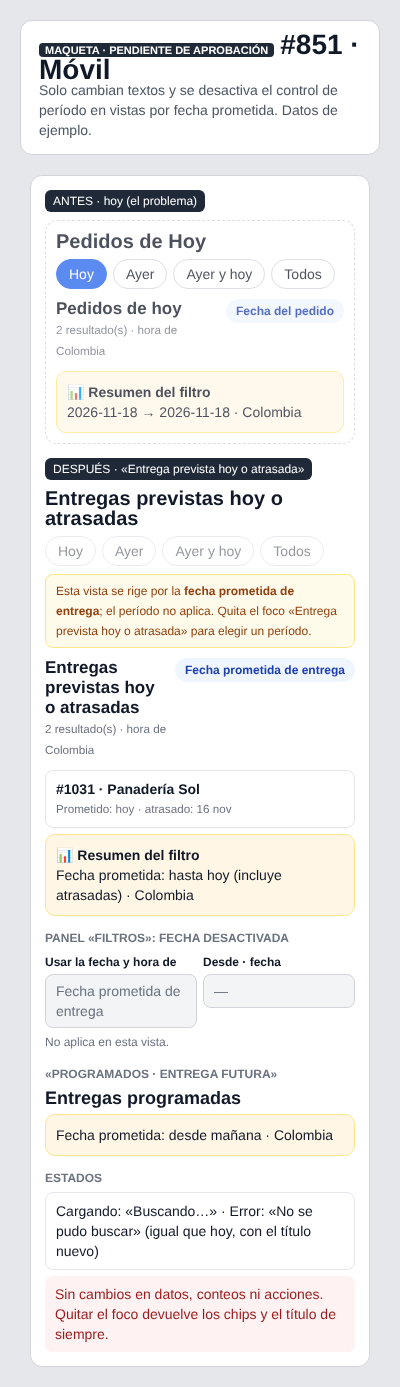
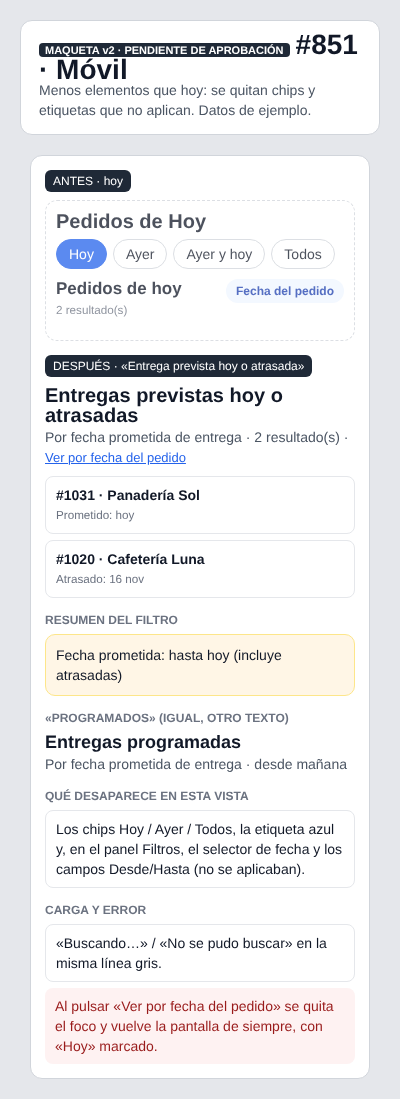
docs(#851): maquetas v2, menos ruido visual (pendientes de aprobación)
Refs #851

Claude-Session: https://claude.ai/code/session_01WV8WE4C9HXLmAfyxAefNfv

Changed region(s): [[0.06, 0.0, 0.96, 0.99]]

diff --git a/docs/agentes/maquetas/851-rotulos-fecha-prometida/01-escritorio.html b/docs/agentes/maquetas/851-rotulos-fecha-prometida/01-escritorio.html
@@ -1,4 +1,4 @@
-<!doctype html><html lang="es"><head><meta charset="utf-8"><meta name="viewport" content="width=device-width,initial-scale=1"><title>#851 · Escritorio</title><style>:root{--g100:#f3f4f6;--g200:#e5e7eb;--g300:#d1d5db;--g500:#6b7280;--g600:#4b5563;--g800:#1f2937;--b50:#eff6ff;--b600:#2563eb;--b800:#1e40af;--r50:#fef2f2;--r800:#991b1b}
+<!doctype html><html lang="es"><head><meta charset="utf-8"><meta name="viewport" content="width=device-width,initial-scale=1"><title>#851 v2 · Escritorio</title><style>:root{--g100:#f3f4f6;--g200:#e5e7eb;--g300:#d1d5db;--g500:#6b7280;--g600:#4b5563;--g800:#1f2937;--b50:#eff6ff;--b600:#2563eb;--b800:#1e40af;--r50:#fef2f2;--r800:#991b1b}
 *{box-sizing:border-box}body{margin:0;background:#e5e7eb;font:14px/20px Arial,sans-serif;color:#111827}h1,h2,h3,p{margin:0}
 .lienzo{padding:20px;display:flex;flex-wrap:wrap;gap:20px;justify-content:center;align-items:flex-start}
 .cab{width:100%;background:#fff;border:1px solid var(--g300);border-radius:12px;padding:14px 18px}.cab p{color:var(--g600)}
@@ -14,8 +14,9 @@
 .f{border:1px solid var(--g200);border-radius:8px;padding:8px 10px;margin-bottom:6px}.f small{display:block;color:var(--g500)}
 .in{border:1px solid var(--g300);border-radius:8px;padding:6px 10px;background:#f3f4f6;color:var(--g500)}
 .res{background:#fff6e6;border:1px solid #fde68a;border-radius:10px;padding:10px}.er{background:var(--r50);color:var(--r800);border-radius:8px;padding:8px 10px;margin-top:6px}
-.antes{opacity:.75;border-style:dashed}.row{display:flex;gap:6px;flex-wrap:wrap}.row>div{flex:1;min-width:120px}label{display:block;font-weight:700;font-size:12px;margin-bottom:2px}</style></head><body><div class="lienzo"><div class="cab"><h1><span class="etq">MAQUETA · PENDIENTE DE APROBACIÓN</span>#851 · Escritorio</h1><p>Solo cambian textos y se desactiva el control de período en vistas por fecha prometida. Datos de ejemplo.</p></div><div class="pant dsk"><div class="tg">ANTES · hoy (el problema)</div><div class="antes pant" style="padding:10px"><h1 style="font-size:20px">Pedidos de Hoy</h1><div class="chips" style="margin-top:8px"><span class="c on">Hoy</span><span class="c">Ayer</span><span class="c">Ayer y hoy</span><span class="c">Todos</span></div><div class="hd"><div><h2>Pedidos de hoy</h2><small>2 resultado(s) · hora de Colombia</small></div><span class="bd">Fecha del pedido</span></div><div class="res"><b>📊 Resumen del filtro</b><br>2026-11-18 → 2026-11-18 · Colombia</div></div>
-<div class="tg" style="margin-top:14px">DESPUÉS · «Entrega prevista hoy o atrasada»</div><h1 style="font-size:20px">Entregas previstas hoy o atrasadas</h1><div class="chips" style="margin-top:8px"><span class="c off">Hoy</span><span class="c off">Ayer</span><span class="c off">Ayer y hoy</span><span class="c off">Todos</span></div><div class="nota">Esta vista se rige por la <b>fecha prometida de entrega</b>; el período no aplica. Quita el foco «Entrega prevista hoy o atrasada» para elegir un período.</div><div class="hd"><div><h2>Entregas previstas hoy o atrasadas</h2><small>2 resultado(s) · hora de Colombia</small></div><span class="bd">Fecha prometida de entrega</span></div><div class="f"><b>#1031 · Panadería Sol</b><small>Prometido: hoy · atrasado: 16 nov</small></div><div class="res"><b>📊 Resumen del filtro</b><br>Fecha prometida: hasta hoy (incluye atrasadas) · Colombia</div>
-<div class="sub">Panel «Filtros»: fecha desactivada</div><div class="row"><div><label>Usar la fecha y hora de</label><div class="in">Fecha prometida de entrega</div></div><div><label>Desde · fecha</label><div class="in">—</div></div></div><p style="font-size:12px;color:var(--g500);margin-top:4px">No aplica en esta vista.</p>
-<div class="sub">«Programados · entrega futura»</div><h1 style="font-size:18px">Entregas programadas</h1><div class="res" style="margin-top:6px">Fecha prometida: desde mañana · Colombia</div>
-<div class="sub">Estados</div><div class="f">Cargando: «Buscando…» · Error: «No se pudo buscar» (igual que hoy, con el título nuevo)</div><div class="er">Sin cambios en datos, conteos ni acciones. Quitar el foco devuelve los chips y el título de siempre.</div></div></div></body></html>
+.antes{opacity:.75;border-style:dashed}.row{display:flex;gap:6px;flex-wrap:wrap}.row>div{flex:1;min-width:120px}label{display:block;font-weight:700;font-size:12px;margin-bottom:2px}.lnk{color:#2563eb;text-decoration:underline;font-size:13px;background:none;border:0;padding:0;font:inherit;font-size:13px}.sb{color:#4b5563;margin:2px 0 8px}</style></head><body><div class="lienzo"><div class="cab"><h1><span class="etq">MAQUETA v2 · PENDIENTE DE APROBACIÓN</span>#851 · Escritorio</h1><p>Menos elementos que hoy: se quitan chips y etiquetas que no aplican. Datos de ejemplo.</p></div><div class="pant dsk"><div class="tg">ANTES · hoy</div><div class="antes pant" style="padding:10px"><h1 style="font-size:20px">Pedidos de Hoy</h1><div class="chips" style="margin-top:8px"><span class="c on">Hoy</span><span class="c">Ayer</span><span class="c">Ayer y hoy</span><span class="c">Todos</span></div><div class="hd"><div><h2>Pedidos de hoy</h2><small>2 resultado(s)</small></div><span class="bd">Fecha del pedido</span></div></div>
+<div class="tg" style="margin-top:14px">DESPUÉS · «Entrega prevista hoy o atrasada»</div><h1 style="font-size:20px">Entregas previstas hoy o atrasadas</h1><p class="sb">Por fecha prometida de entrega · 2 resultado(s) · <button class="lnk">Ver por fecha del pedido</button></p><div class="f"><b>#1031 · Panadería Sol</b><small>Prometido: hoy</small></div><div class="f"><b>#1020 · Cafetería Luna</b><small>Atrasado: 16 nov</small></div>
+<div class="sub">Resumen del filtro</div><div class="res">Fecha prometida: hasta hoy (incluye atrasadas)</div>
+<div class="sub">«Programados» (igual, otro texto)</div><h1 style="font-size:18px">Entregas programadas</h1><p class="sb">Por fecha prometida de entrega · desde mañana</p>
+<div class="sub">Qué desaparece en esta vista</div><div class="f">Los chips Hoy / Ayer / Todos, la etiqueta azul y, en el panel Filtros, el selector de fecha y los campos Desde/Hasta (no se aplicaban).</div>
+<div class="sub">Carga y error</div><div class="f">«Buscando…» / «No se pudo buscar» en la misma línea gris.</div><div class="er">Al pulsar «Ver por fecha del pedido» se quita el foco y vuelve la pantalla de siempre, con «Hoy» marcado.</div></div></div></body></html>

diff --git a/docs/agentes/maquetas/851-rotulos-fecha-prometida/02-movil.html b/docs/agentes/maquetas/851-rotulos-fecha-prometida/02-movil.html
@@ -1,4 +1,4 @@
-<!doctype html><html lang="es"><head><meta charset="utf-8"><meta name="viewport" content="width=device-width,initial-scale=1"><title>#851 · Móvil</title><style>:root{--g100:#f3f4f6;--g200:#e5e7eb;--g300:#d1d5db;--g500:#6b7280;--g600:#4b5563;--g800:#1f2937;--b50:#eff6ff;--b600:#2563eb;--b800:#1e40af;--r50:#fef2f2;--r800:#991b1b}
+<!doctype html><html lang="es"><head><meta charset="utf-8"><meta name="viewport" content="width=device-width,initial-scale=1"><title>#851 v2 · Móvil</title><style>:root{--g100:#f3f4f6;--g200:#e5e7eb;--g300:#d1d5db;--g500:#6b7280;--g600:#4b5563;--g800:#1f2937;--b50:#eff6ff;--b600:#2563eb;--b800:#1e40af;--r50:#fef2f2;--r800:#991b1b}
 *{box-sizing:border-box}body{margin:0;background:#e5e7eb;font:14px/20px Arial,sans-serif;color:#111827}h1,h2,h3,p{margin:0}
 .lienzo{padding:20px;display:flex;flex-wrap:wrap;gap:20px;justify-content:center;align-items:flex-start}
 .cab{width:100%;background:#fff;border:1px solid var(--g300);border-radius:12px;padding:14px 18px}.cab p{color:var(--g600)}
@@ -14,8 +14,9 @@
 .f{border:1px solid var(--g200);border-radius:8px;padding:8px 10px;margin-bottom:6px}.f small{display:block;color:var(--g500)}
 .in{border:1px solid var(--g300);border-radius:8px;padding:6px 10px;background:#f3f4f6;color:var(--g500)}
 .res{background:#fff6e6;border:1px solid #fde68a;border-radius:10px;padding:10px}.er{background:var(--r50);color:var(--r800);border-radius:8px;padding:8px 10px;margin-top:6px}
-.antes{opacity:.75;border-style:dashed}.row{display:flex;gap:6px;flex-wrap:wrap}.row>div{flex:1;min-width:120px}label{display:block;font-weight:700;font-size:12px;margin-bottom:2px}</style></head><body><div class="lienzo"><div class="cab"><h1><span class="etq">MAQUETA · PENDIENTE DE APROBACIÓN</span>#851 · Móvil</h1><p>Solo cambian textos y se desactiva el control de período en vistas por fecha prometida. Datos de ejemplo.</p></div><div class="pant mov"><div class="tg">ANTES · hoy (el problema)</div><div class="antes pant" style="padding:10px"><h1 style="font-size:20px">Pedidos de Hoy</h1><div class="chips" style="margin-top:8px"><span class="c on">Hoy</span><span class="c">Ayer</span><span class="c">Ayer y hoy</span><span class="c">Todos</span></div><div class="hd"><div><h2>Pedidos de hoy</h2><small>2 resultado(s) · hora de Colombia</small></div><span class="bd">Fecha del pedido</span></div><div class="res"><b>📊 Resumen del filtro</b><br>2026-11-18 → 2026-11-18 · Colombia</div></div>
-<div class="tg" style="margin-top:14px">DESPUÉS · «Entrega prevista hoy o atrasada»</div><h1 style="font-size:20px">Entregas previstas hoy o atrasadas</h1><div class="chips" style="margin-top:8px"><span class="c off">Hoy</span><span class="c off">Ayer</span><span class="c off">Ayer y hoy</span><span class="c off">Todos</span></div><div class="nota">Esta vista se rige por la <b>fecha prometida de entrega</b>; el período no aplica. Quita el foco «Entrega prevista hoy o atrasada» para elegir un período.</div><div class="hd"><div><h2>Entregas previstas hoy o atrasadas</h2><small>2 resultado(s) · hora de Colombia</small></div><span class="bd">Fecha prometida de entrega</span></div><div class="f"><b>#1031 · Panadería Sol</b><small>Prometido: hoy · atrasado: 16 nov</small></div><div class="res"><b>📊 Resumen del filtro</b><br>Fecha prometida: hasta hoy (incluye atrasadas) · Colombia</div>
-<div class="sub">Panel «Filtros»: fecha desactivada</div><div class="row"><div><label>Usar la fecha y hora de</label><div class="in">Fecha prometida de entrega</div></div><div><label>Desde · fecha</label><div class="in">—</div></div></div><p style="font-size:12px;color:var(--g500);margin-top:4px">No aplica en esta vista.</p>
-<div class="sub">«Programados · entrega futura»</div><h1 style="font-size:18px">Entregas programadas</h1><div class="res" style="margin-top:6px">Fecha prometida: desde mañana · Colombia</div>
-<div class="sub">Estados</div><div class="f">Cargando: «Buscando…» · Error: «No se pudo buscar» (igual que hoy, con el título nuevo)</div><div class="er">Sin cambios en datos, conteos ni acciones. Quitar el foco devuelve los chips y el título de siempre.</div></div></div></body></html>
+.antes{opacity:.75;border-style:dashed}.row{display:flex;gap:6px;flex-wrap:wrap}.row>div{flex:1;min-width:120px}label{display:block;font-weight:700;font-size:12px;margin-bottom:2px}.lnk{color:#2563eb;text-decoration:underline;font-size:13px;background:none;border:0;padding:0;font:inherit;font-size:13px}.sb{color:#4b5563;margin:2px 0 8px}</style></head><body><div class="lienzo"><div class="cab"><h1><span class="etq">MAQUETA v2 · PENDIENTE DE APROBACIÓN</span>#851 · Móvil</h1><p>Menos elementos que hoy: se quitan chips y etiquetas que no aplican. Datos de ejemplo.</p></div><div class="pant mov"><div class="tg">ANTES · hoy</div><div class="antes pant" style="padding:10px"><h1 style="font-size:20px">Pedidos de Hoy</h1><div class="chips" style="margin-top:8px"><span class="c on">Hoy</span><span class="c">Ayer</span><span class="c">Ayer y hoy</span><span class="c">Todos</span></div><div class="hd"><div><h2>Pedidos de hoy</h2><small>2 resultado(s)</small></div><span class="bd">Fecha del pedido</span></div></div>
+<div class="tg" style="margin-top:14px">DESPUÉS · «Entrega prevista hoy o atrasada»</div><h1 style="font-size:20px">Entregas previstas hoy o atrasadas</h1><p class="sb">Por fecha prometida de entrega · 2 resultado(s) · <button class="lnk">Ver por fecha del pedido</button></p><div class="f"><b>#1031 · Panadería Sol</b><small>Prometido: hoy</small></div><div class="f"><b>#1020 · Cafetería Luna</b><small>Atrasado: 16 nov</small></div>
+<div class="sub">Resumen del filtro</div><div class="res">Fecha prometida: hasta hoy (incluye atrasadas)</div>
+<div class="sub">«Programados» (igual, otro texto)</div><h1 style="font-size:18px">Entregas programadas</h1><p class="sb">Por fecha prometida de entrega · desde mañana</p>
+<div class="sub">Qué desaparece en esta vista</div><div class="f">Los chips Hoy / Ayer / Todos, la etiqueta azul y, en el panel Filtros, el selector de fecha y los campos Desde/Hasta (no se aplicaban).</div>
+<div class="sub">Carga y error</div><div class="f">«Buscando…» / «No se pudo buscar» en la misma línea gris.</div><div class="er">Al pulsar «Ver por fecha del pedido» se quita el foco y vuelve la pantalla de siempre, con «Hoy» marcado.</div></div></div></body></html>
